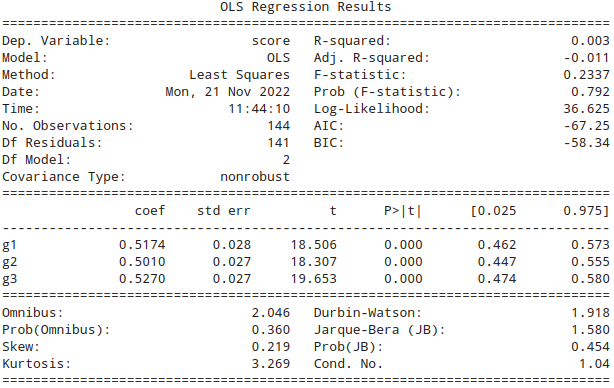
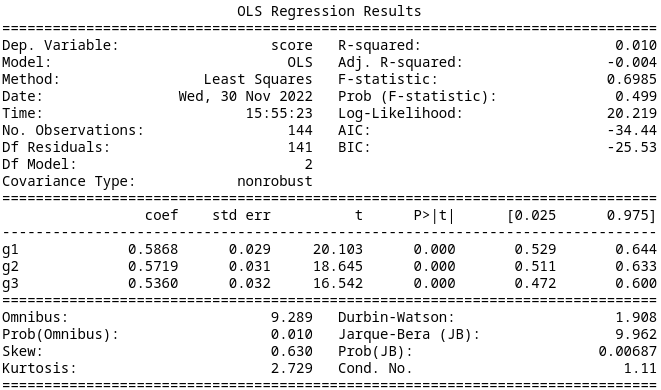
update hw4

Changed region(s): [[0.0, 0.0, 1.0, 1.0]]

diff --git a/hw4.md b/hw4.md
@@ -14,70 +14,43 @@ If we encode the MDP type using a one-hot encoding (for MDP type $$k$$ we form a
 We have between 7 and 15 trials of each MDP type.  As a result, I tried grouping the data based on the three characteristics identified previously to overcome some of the instability that occurs with such small sample sizes.
 
 ## Model 0
-Treating each of the 12 MDP types separately results in an AIC of -71.85.  The summary data is below.  
+Treating each of the 12 MDP types separately results in an AIC of -30.67.  The summary data is below.  
 
 ![Model 0](/assets/images/reg0.png)
 
 
 ## Model 1
-If we assume that participants recognized that the orientation of the diagram was irrelevant so we can reorder the states to remove the stratification by placement of the high reward state, we can group the MDP types into 4 groups of 3.  Fitting a linear regression in the same manner as before results in an AIC of -67.30.  This is significantly worse than the prior model.  The summary data is below.
+If we assume that participants recognized that the orientation of the diagram was irrelevant so we can reorder the states to remove the stratification by placement of the high reward state, we can group the MDP types into 4 groups of 3.  Fitting a linear regression in the same manner as before results in an AIC of -34.33.  This is significantly better than the prior model.  The summary data is below.
 
 ![Model 1](/assets/images/reg1.png)
 
 
 ## Model 2
-If we assume participants are not affected by which action is optimal, we get six pairs of MDPs.  This results in an AIC of -77.72.  Therefore Model 2 is significantly better. The summary data is below.
+If we assume participants are not affected by which action is optimal, we get six pairs of MDPs.  This results in an AIC of -32.50.  Therefore Model 1 is better but not significantly. The summary data is below.
 
 ![Model 3](/assets/images/reg3.png)
 
 ## Model 3
-If we assume that the position of the indefinite state is irrelevant, we again arrive at six pairs of MDPs.  This gives an AIC of -66.24, so again Model 2 is significantly better. The summary data is below.
+If we assume that the position of the indefinite state is irrelevant, we again arrive at six pairs of MDPs.  This gives an AIC of -35.66, so this is significantly better than Model 0 and Model 2, but on par with Model 1. The summary data is below.
 
 ![Model 6](/assets/images/reg6.png)
 
 ## Model 4
-Further reducing the categories by assuming that only the optimal action is relevant gives an AIC of -69.52, which is again worse than Model 2. The summary data is below.
+Further reducing the categories by assuming that only the optimal action is relevant gives an AIC of -35.03, which is again better than Model 2, but comparable with Model 1 and Model 3. The summary data is below.
 
 ![Model 2](/assets/images/reg2.png)
 
 ## Model 5
-If we instead pay attention only to the location of the high reward state, we find an AIC of -67.25.  This is again worse than Model 2. The summary data is below.
+If we instead pay attention only to the location of the high reward state, we find an AIC of -34.44.  This is comparable to the previous models. The summary data is below.
 
 ![Model 5](/assets/images/reg5.png)
 
 ## Model 6
-Finally, if we consider just the location of the indefinite state relative to the high-reward state, we get an AIC of -70.51. The summary data is below.
+Finally, if we consider just the location of the indefinite state relative to the high-reward state, we get an AIC of -38.02. This is the lowest AIC, and is a significant improvement. The summary data is below.
 
 ![Model 4](/assets/images/reg4.png)
 
 # Results
-Since we have a randomized control trial, and only look at the first MDP, identification is a straight forward application of the usual assumptions.  With the linear regression model, it amounts to taking the difference of the coefficients of the group $$m_j$$ belongs to and the group $$m_j'$$ belongs to.  Using Model 3 since it was the best model, we arrive at 
+Since we have a randomized control trial, and only look at the first MDP, identification is a straight forward application of the usual assumptions.  With the linear regression model, it amounts to taking the difference of the coefficients of the group $$m_j$$ belongs to and the group $$m_j'$$ belongs to.  Using Model 6 since it was the best, we arrive at $$0.5372-0.5979=-0.0607$$ where for MDPs in Group 1 the indefinite state is counterclockwise from the high-reward state and for MDPs in Group 2 the indefinite state is clockwise from the high-reward state.
 
-|--------|-----|-----------|------------|-------------|------------|------------|-------------|
-|        |     |           |            |    $$m_j'$$ |            |            |             |
-|--------|-----|-----------|------------|-------------|------------|------------|-------------|
-|        |     |   g1      |    g2      |    g3       |   g4       |   g5       |   g6|
-|--------|-----|-----------:|------------:|-------------:|------------:|------------:|-------------:|
-|        |g1   |   +0.0000 |    +0.1074 |    +0.1068  |   -0.0528  |   -0.0058  |   -0.0462|
-|        |g2   |   -0.1074 |    +0.0000 |    -0.0006  |   -0.1602  |   -0.1132  |   -0.1536|
-|$$m_j$$ |g3   |   -0.1068 |    +0.0006 |    +0.0000  |   -0.1596  |   -0.1126  |   -0.1530|
-|        |g4   |   +0.0528 |    +0.1602 |    +0.1596  |   +0.0000  |   +0.0470  |   +0.0066|
-|        |g5   |   +0.0058 |    +0.1132 |    +0.1126  |   -0.0470  |   +0.0000  |   -0.0404|
-|        |g6   |   +0.0462 |    +0.1536 |    +0.1530  |   -0.0066  |   +0.0404  |   +0.0000|
-|--------|-----|-----------|------------|-------------|------------|------------|-------------|
-
-where the groups have the following characteristics:
-
-|-----|-----------------------|-----------------------------------------|----|
-|        |high   |        indefinite |    coefficient    |
-|-----|:-----------------------:|-----------------------------------------|----|
-|g1      |0                    |       counter-clockwise| 0.5250 |
-|g2      |2                     |      clockwise        | 0.4176 |
-|g3     | 1                      |     counter-clockwise| 0.4182 |
-|g4    |  0                       |    clockwise        | 0.5778 |       
-|g5   |   2                        |   counter-clockwise| 0.5308 |
-|g6  |    1                         |  clockwise        | 0.5712 |
-|-----|-----------------------|-----------------------------------------|
-
-
-It was suprising to me that ignoring the optimal action led to a better model, because I thought it would be the dominant factor and mediate the effect of the relative location of the indefinite state.  There does seem to be 3 groupings in the current model, but unifying factors in the groupings are not apparent to me at this time.
+This seems to suggest that performance is better when the indefinite state is clockwise from the high-reward state, and this characterizes the difference between MDPs.
